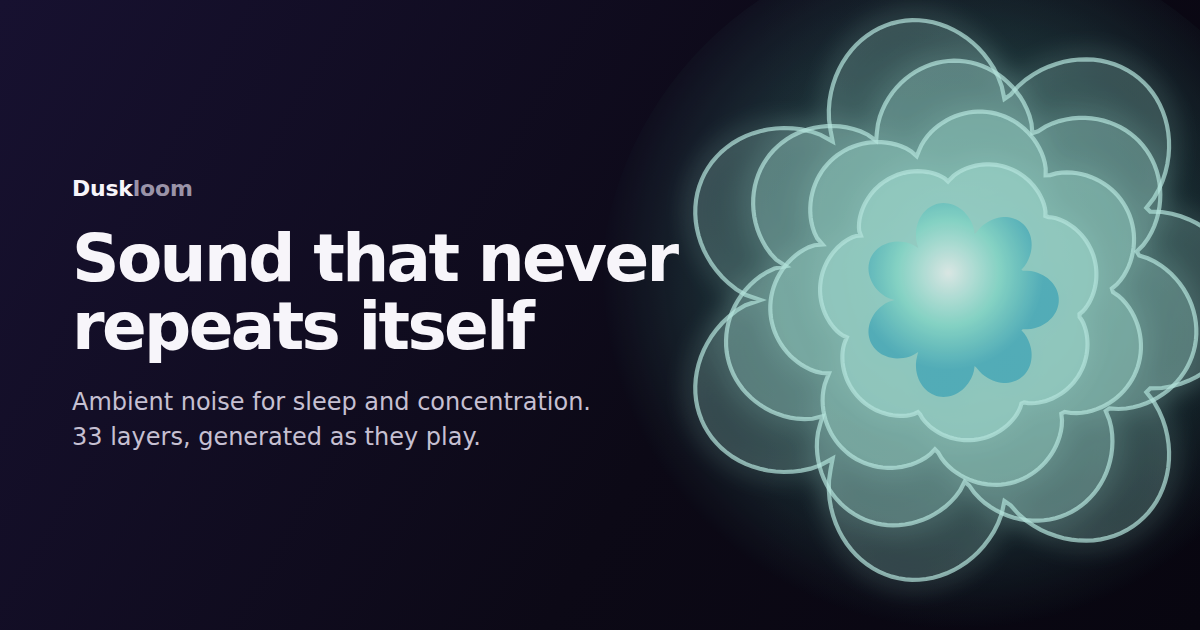
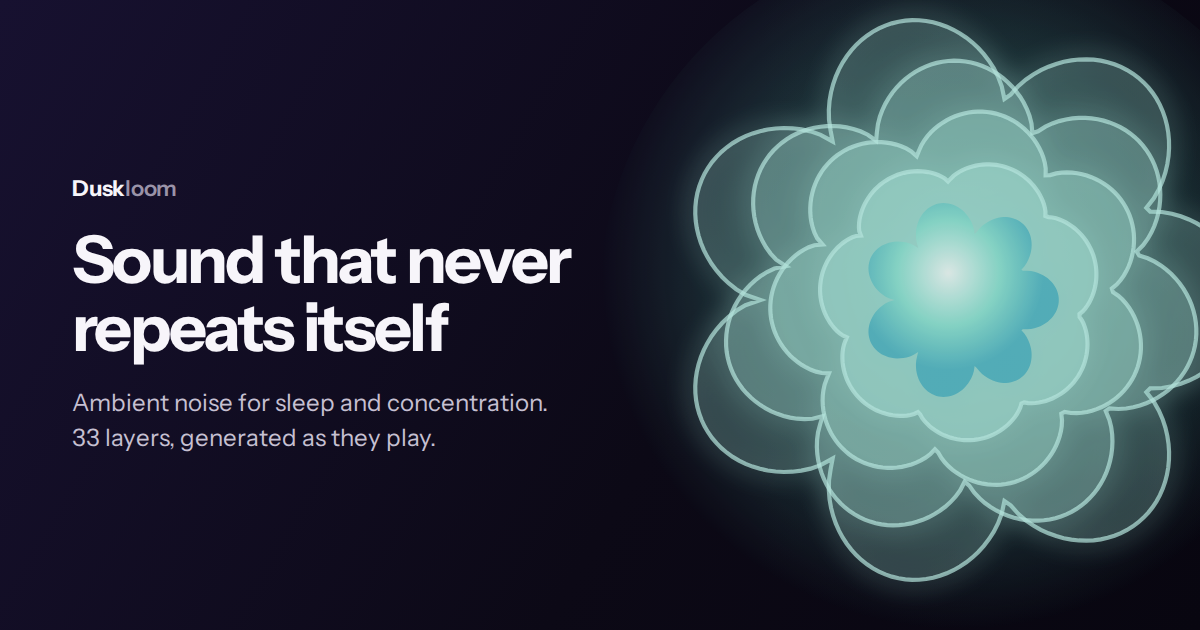
Add files via upload

Changed region(s): [[0.0617, 0.3619, 0.5858, 0.573], [0.0617, 0.6032, 0.4933, 0.7238], [0.0617, 0.2714, 0.1542, 0.3317]]

diff --git a/index.html b/index.html
@@ -17,10 +17,17 @@
 <meta name="theme-color" content="#09070D">
 <link rel="icon" href="/favicon.png" type="image/png">
 <link rel="apple-touch-icon" href="/favicon.png">
-<link rel="preconnect" href="https://fonts.googleapis.com">
-<link rel="preconnect" href="https://fonts.gstatic.com" crossorigin>
-<link href="https://fonts.googleapis.com/css2?family=Instrument+Sans:wght@400;500;600;700&display=swap" rel="stylesheet">
 <style>
+  /* Instrument Sans, bundled — the app must never depend on the network */
+  @font-face{
+    font-family:"Instrument Sans";
+    src:url("/fonts/instrument-sans.woff2") format("woff2-variations"),
+        url("/fonts/instrument-sans.woff2") format("woff2");
+    font-weight:400 700;
+    font-style:normal;
+    font-display:swap;
+  }
+</style><style>
   :root{
     --ink:#FBFAFD; --dim:#C6C0D2; --dimmer:#9A93A8;
     --deep:#09070D; --panel:rgba(255,255,255,.045); --panel-2:rgba(255,255,255,.07);
